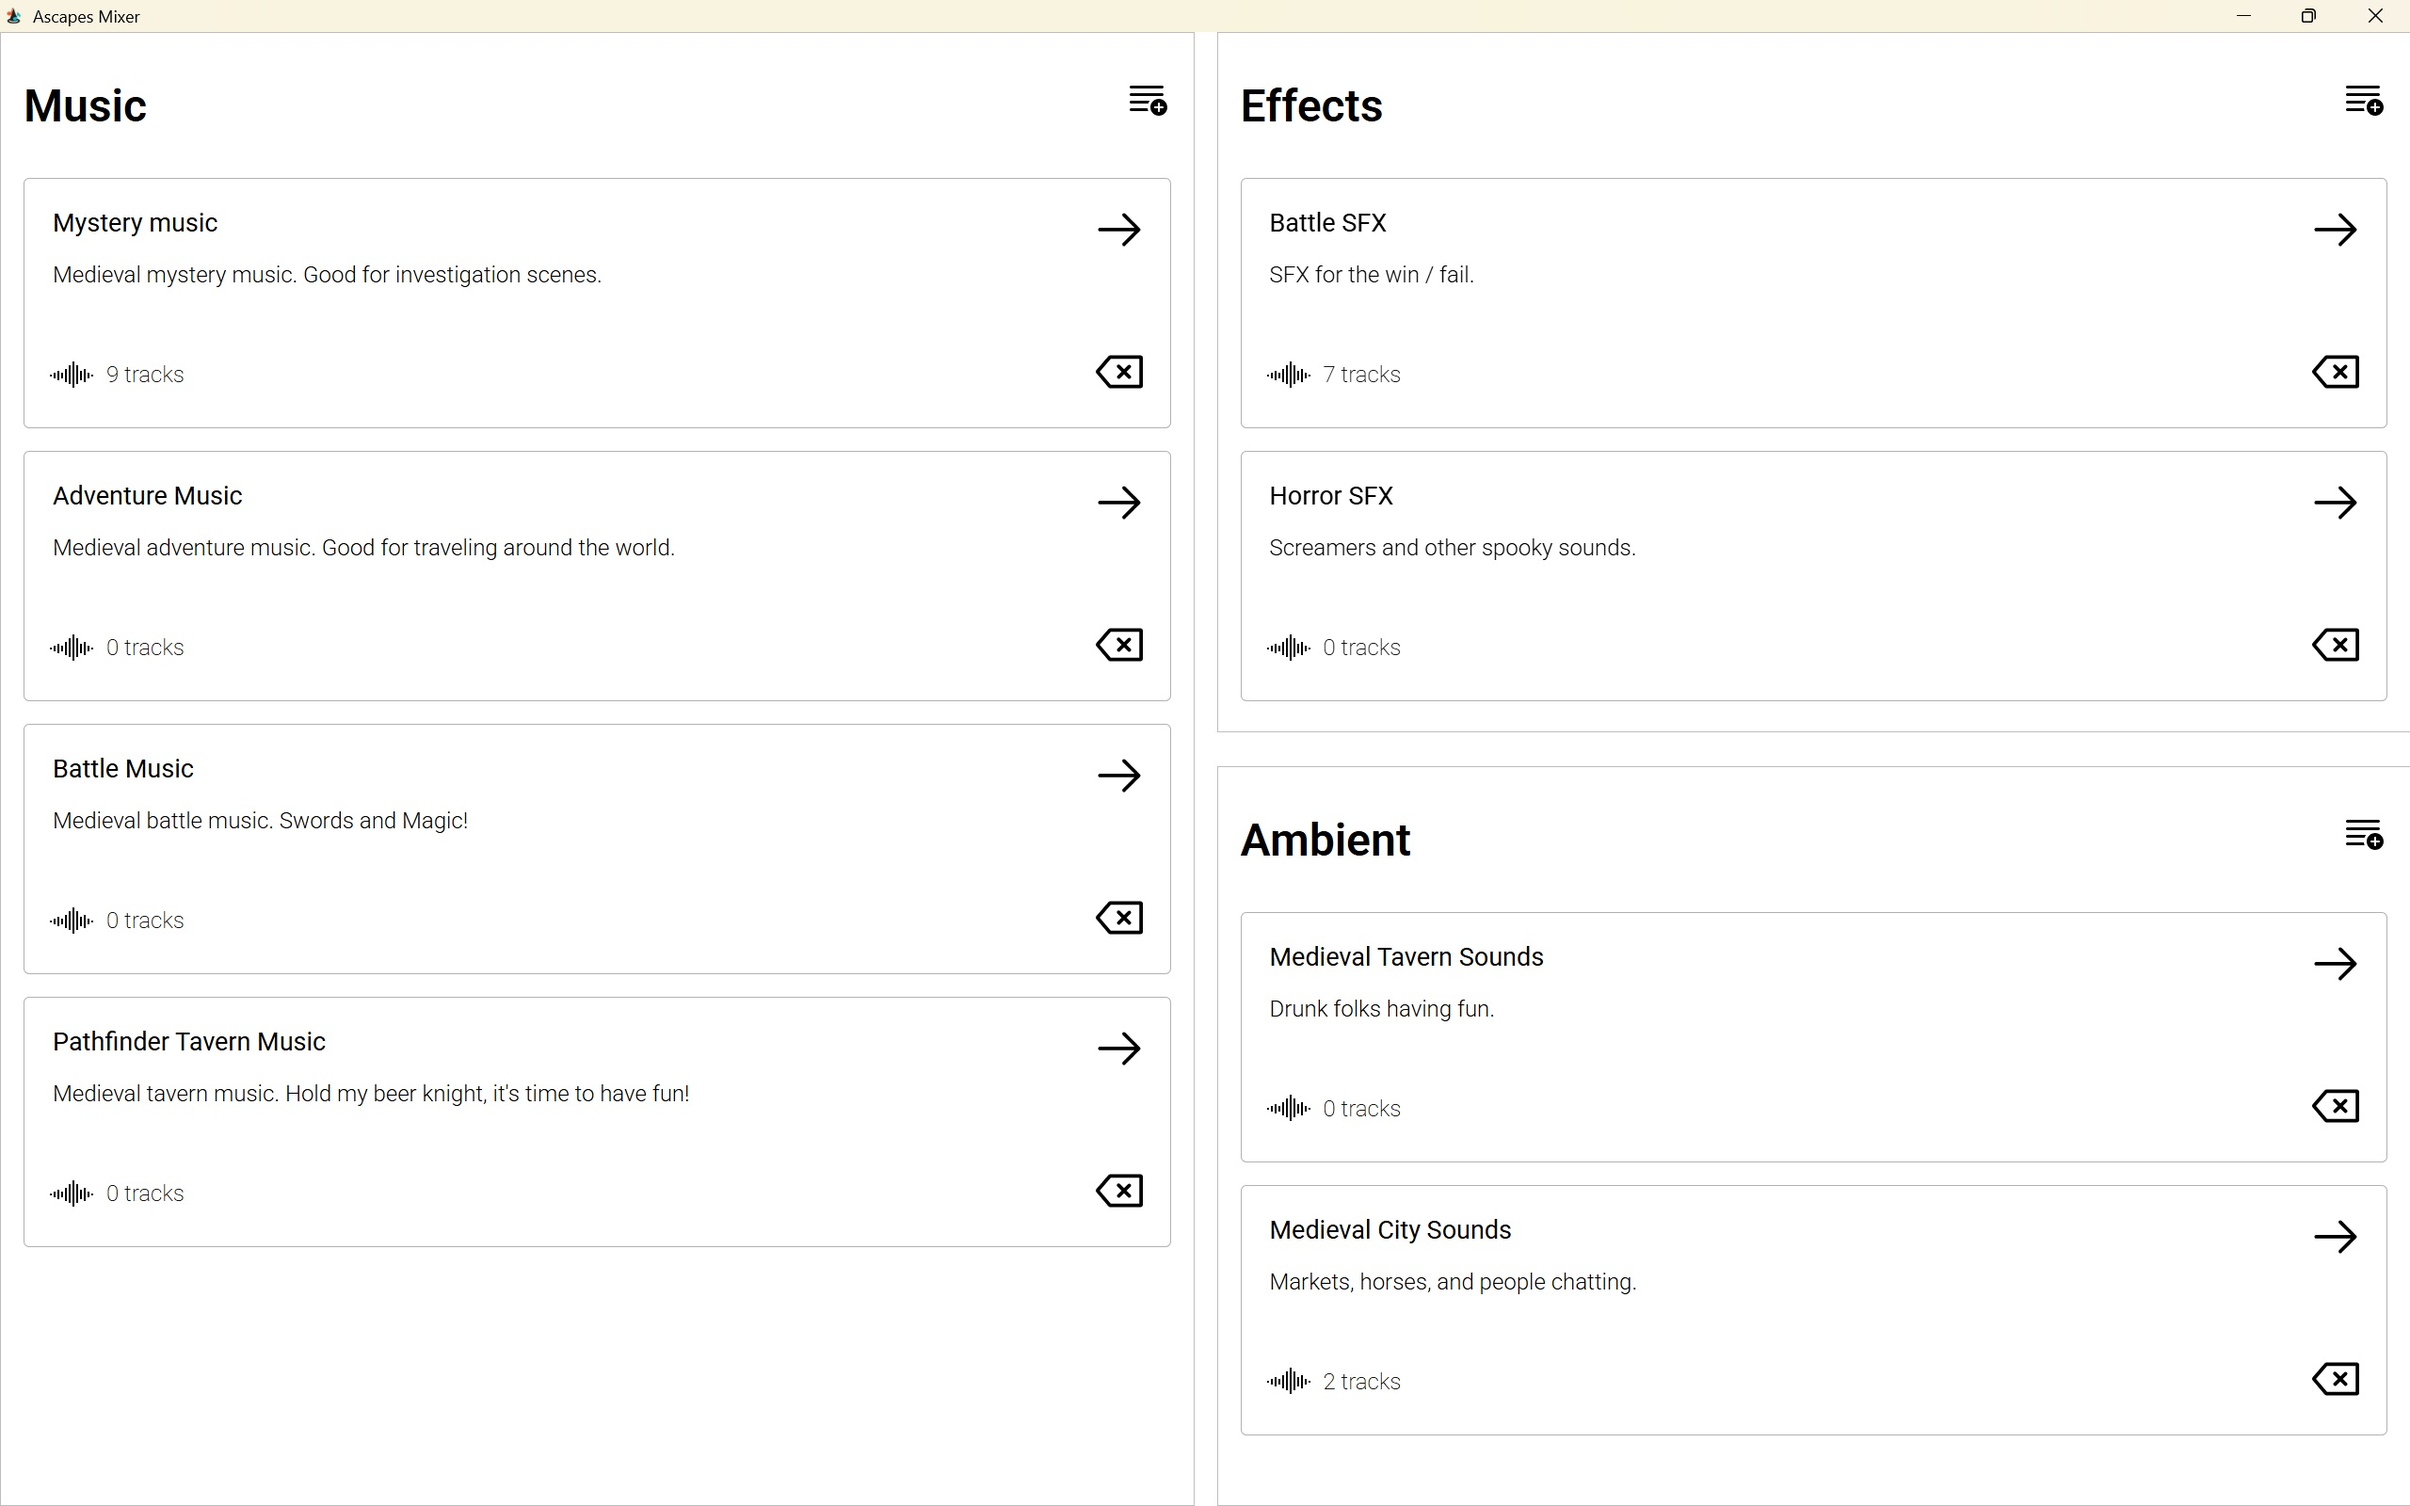
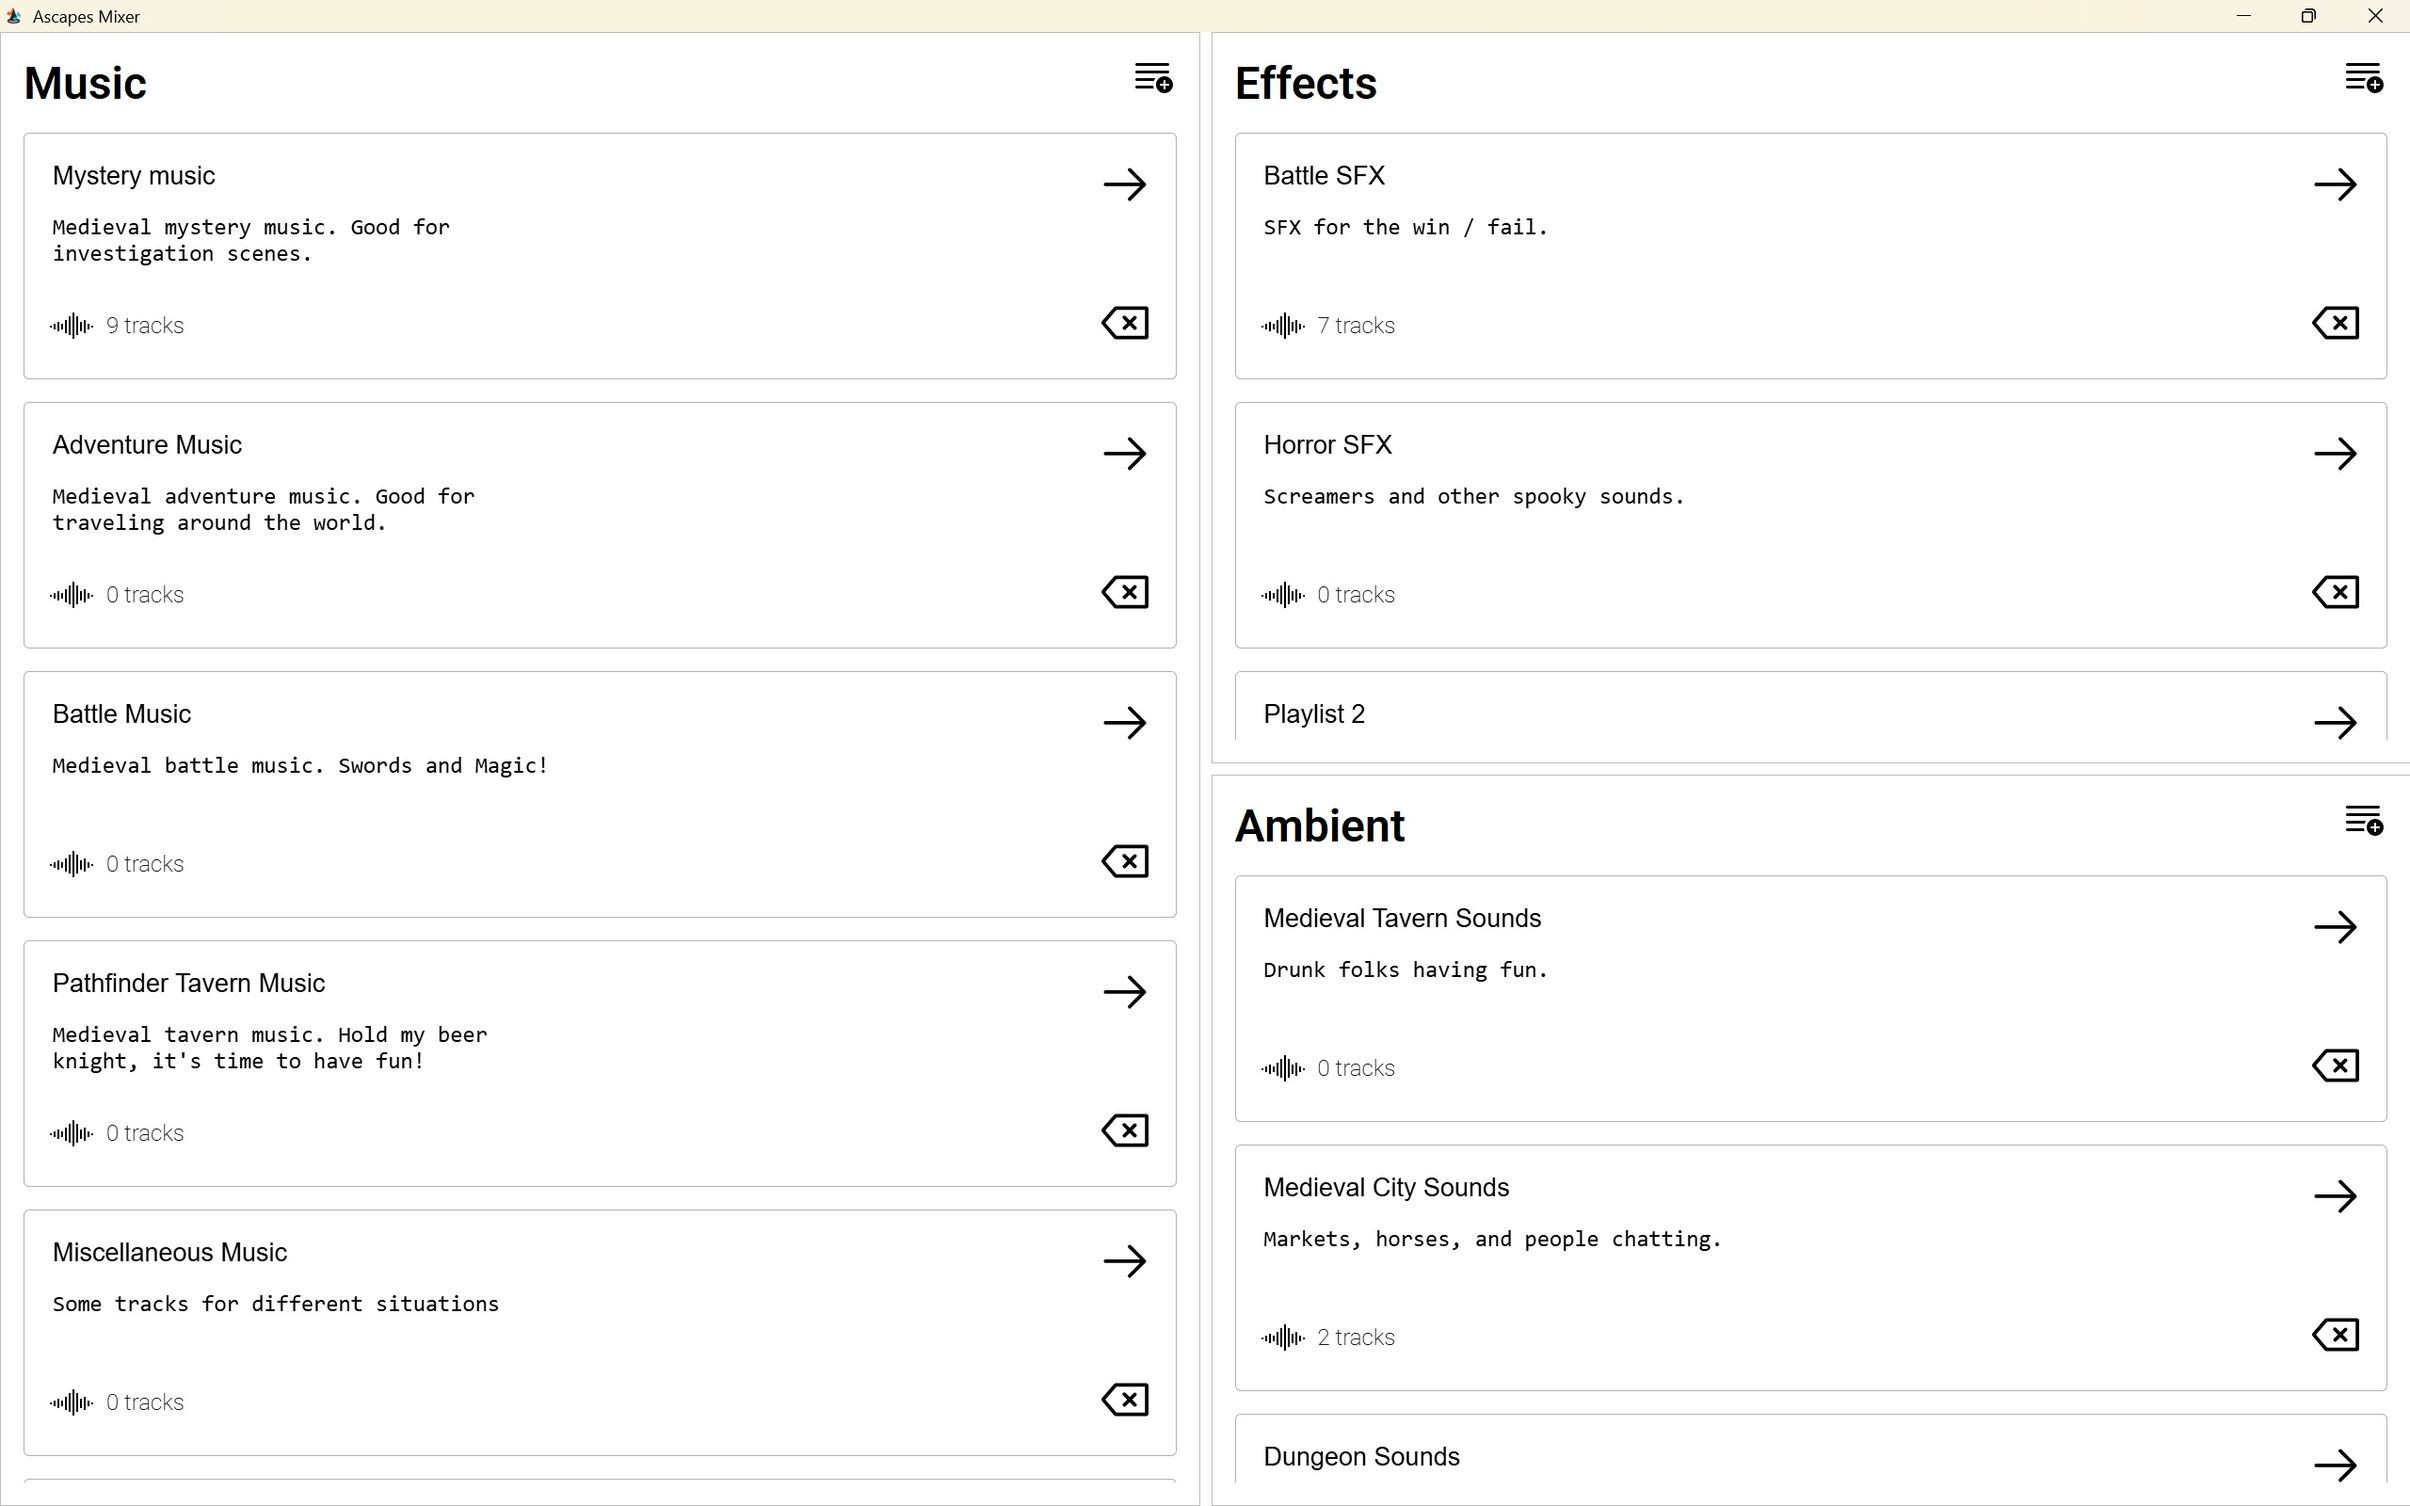
Improve pads layout and styles

diff --git a/src/lib/pads/Pad.svelte b/src/lib/pads/Pad.svelte
@@ -7,6 +7,8 @@
   } from "@tauri-apps/plugin-fs";
   import { getContext } from "svelte";
 
+  import PlayIcon from "../icons/PlayIcon.svelte";
+  import PauseIcon from "../icons/PauseIcon.svelte";
   import DeleteIcon from "../icons/DeleteIcon.svelte";
 
   let { item } = $props();
@@ -51,20 +53,12 @@
     currentTime = 0;
   }
 
-  function handleClick() {
-    if (!isPlaying) {
-      handlePlay();
-    } else {
-      handleStop()
-    }
-  }
-
   function handlePlay() {
     isPlaying = true;
     audioRef.play();
   }
 
-  function handleStop() {
+  function handlePause() {
     isPlaying = false;
     audioRef.pause();
     currentTime = 0.0;
@@ -107,37 +101,39 @@
 
 <div class="pad">
   <div class="pad-header">
-    <button
-      class="button sample-button {isReady ? '' : 'disabled'} {isPlaying
-        ? ''
-        : ''}"
-      onclick={handleClick}
-    >
-    </button>
-    <div 
-      class="progress" 
-      style:width="{(currentTime / duration) * 100}%"
-      onclick={handleClick}
-    >
-    </div>
+    {#if !isPlaying}
+      <button class="button play-button" onclick={handlePlay}>
+        <PlayIcon size={50} />
+      </button>
+    {:else}
+      <button class="button pause-button" onclick={handlePause}>
+        <PauseIcon size={50}/>
+      </button>
+    {/if}
   </div>
   <div class="pad-footer">
-    <input
-      type="text"
-      name="name"
-      required
-      minlength="4"
-      maxlength="128"
-      autocomplete="off"
-      placeholder={name}
-      bind:value={name}
-      onchange={handleNameChange}
-    />
-    <button class="button delete-button" onclick={handleDelete}>
-      <DeleteIcon />
-    </button>
+    <div class="pad-footer-head">
+      <input
+        type="text"
+        name="name"
+        required
+        minlength="4"
+        maxlength="128"
+        autocomplete="off"
+        placeholder={name}
+        bind:value={name}
+        onchange={handleNameChange}
+      />
+      <button class="button delete-button" onclick={handleDelete}>
+        <DeleteIcon />
+      </button>
+    </div>
   </div>
-
+  <div 
+    class="progress" 
+    style:width="{(currentTime / duration) * 100}%"
+  >
+  </div>
   {#if url}
     <audio
       src={url}
@@ -153,54 +149,56 @@
 
 <style>
   .pad {
-    border: 1px solid #bdbdbd;
-    border-radius: 4px;
+    position: relative;
+    border: 1px solid #0000004d;
+    border-radius: 16px; 
   }
 
-  .pad:hover .pad-footer {
-    background-color: #0000000d;
+  .pad:hover {
+    background-color: #f0f0ff;
   }
+
 
   .pad-header {
-    position: relative; /* Necessary for positioning child elements inside it */
+
+    
     display: flex;
-    background-color: #0088ff1a;
+    justify-content: center;
+    min-height: 90px;
   }
 
   .pad-footer {
     display: flex;
-    flex-direction: row;
-    height: 80px;
+    min-height: 80px;
     align-items: flex-start;
+  }
+
+  .pad-footer-head {
+    display: flex;
+    flex-direction: row;
+    align-items: center;
   }
 
   /* Progress bar */
   .progress {
-    position: absolute; /* Position it absolutely within the parent */
-    bottom: 0; /* Place it at the bottom of the parent div */
-    left: 0; /* Start from the left */
-    height: -webkit-fill-available; /* Set the height for the progress bar */
-    border-radius: 0px 4px 4px 0px;
+    position: absolute;
+    bottom: 0;
+    left: 0;
+    height: -webkit-fill-available;
+    border-radius: 16px;
     background: linear-gradient(
       to right,
       rgba(255, 255, 255, 0.2) 0%,
       rgba(33, 150, 243, 0.2) 0%
     );
-    /*transition: width 0.1s ease-in;  Smooth transition when updating the width */
-  }
-
-  .progress:hover {
-    cursor: pointer;
-    background: linear-gradient(
-      to right,
-      rgba(255, 255, 255, 0.2) 0%,
-      rgba(150, 0, 0, 0.2) 0%
-    );
+    z-index: 1; /* Add this line to explicitly set a low z-index */
   }
 
   .button {
     background: none;
     border: none;
+    position: relative; /* Add this line */
+    z-index: 2; /* Add this line to ensure buttons are above the progress bar */
   }
 
   .sample-button {
@@ -213,6 +211,7 @@
     justify-content: space-between;
     align-items: center;
     gap: 8px;
+
   }
 
   .pad:hover .delete-button {
@@ -250,6 +249,7 @@
   }
 
   input {
+    font-family: "Roboto", serif;
     text-overflow: ellipsis;
     width: 100% /*-webkit-fill-available*/;
     margin-block: 4px;

diff --git a/src/lib/catalog/CatalogItem.svelte b/src/lib/catalog/CatalogItem.svelte
@@ -123,6 +123,7 @@
 
 <style>
 	.playlist {
+		font-family: "Roboto", serif;
 		height: fit-content;
 		padding: 16px;
 		display: flex;
@@ -131,11 +132,12 @@
 		border: 1px solid #0000004d;
 		border-radius: 4px;
 		background-color: #fff;
+		box-shadow: 0 0 8px 2px #0000001a;
 	}
 
 	.playlist:hover {
-		background-color: #0000000d;
-
+		background-color: #f0f0ff;
+		
 	}
 
 
@@ -211,7 +213,7 @@
 	}
 
 	input, textarea {
-		font-family: "Roboto", serif;
+
 	    text-overflow: ellipsis;
 	    width: 50% /*-webkit-fill-available*/;
 	    margin-block: 4px;

diff --git a/src/lib/sections/MusicSection.svelte b/src/lib/sections/MusicSection.svelte
@@ -136,7 +136,7 @@
 <style>
 
 	.section {
-		
+		font-family: "Roboto", serif;
 		height: 100%;
     max-height: 100%;
 		display: flex;
@@ -149,7 +149,7 @@
 	  display: grid;
 	  grid-template-columns: minmax(0, 1fr) auto; /* This is key */
 	  gap: 16px;
-	  padding-block: 16px;
+	  padding-block: 0px;
 	  width: 100%;
 	}
 
@@ -179,7 +179,7 @@
 	.back-button {
 		font-size: 32px;
 		font-weight: 600;
-		text-decoration: underline;
+		
 	}
 
 	.back-button:hover {

diff --git a/src/lib/pads/PadsGrid.svelte b/src/lib/pads/PadsGrid.svelte
@@ -200,14 +200,13 @@
   }
 
   .drag-zone.highlight {
-    background-color: #0000000d;
+    background-color: #f0f0ff;
   }
 
   .samples {
     display: grid;
-    grid-template-columns: 33% 33% 33%;
-    gap: 8px;
-
+    grid-template-columns: repeat(3, 1fr); /* Ensures three equal columns */
+    gap: 16px;
     justify-content: space-between;
     justify-items: start;
   }

diff --git a/src/lib/sections/AmbientSection.svelte b/src/lib/sections/AmbientSection.svelte
@@ -136,7 +136,7 @@
 <style>
 
 	.section {
-		
+		font-family: "Roboto", serif;
 		height: 100%;
     max-height: 100%;
 		display: flex;
@@ -149,7 +149,7 @@
 	  display: grid;
 	  grid-template-columns: minmax(0, 1fr) auto; /* This is key */
 	  gap: 16px;
-	  padding-block: 16px;
+	  padding-block: 0px;
 	  width: 100%;
 	}
 

diff --git a/src/lib/sections/EffectsSection.svelte b/src/lib/sections/EffectsSection.svelte
@@ -136,7 +136,7 @@
 <style>
 
 	.section {
-		
+		font-family: "Roboto", serif;
 		height: 100%;
     max-height: 100%;
 		display: flex;
@@ -149,7 +149,7 @@
 	  display: grid;
 	  grid-template-columns: minmax(0, 1fr) auto; /* This is key */
 	  gap: 16px;
-	  padding-block: 16px;
+	  padding-block: 0px;
 	  width: 100%;
 	}
 

diff --git a/src/lib/playlist/PlaylistItem.svelte b/src/lib/playlist/PlaylistItem.svelte
@@ -143,6 +143,7 @@
 
 <style>
   .playlist-item {
+    font-family: "Roboto", serif;
     width: -webkit-fill-available;
     display: flex;
     flex-direction: row;
@@ -156,7 +157,7 @@
   }
 
   .playlist-item:hover {
-    background-color: #0000000d;
+    background-color: #f0f0ff;
   }
 
   .active {

diff --git a/src/routes/+page.svelte b/src/routes/+page.svelte
@@ -99,6 +99,7 @@
 
   /* Grid container */
   .container {
+    font-family: "Roboto", serif;
     height: 100vh;
     display: grid;
     grid-template-columns: 1fr 1fr; /* Two equal columns */
